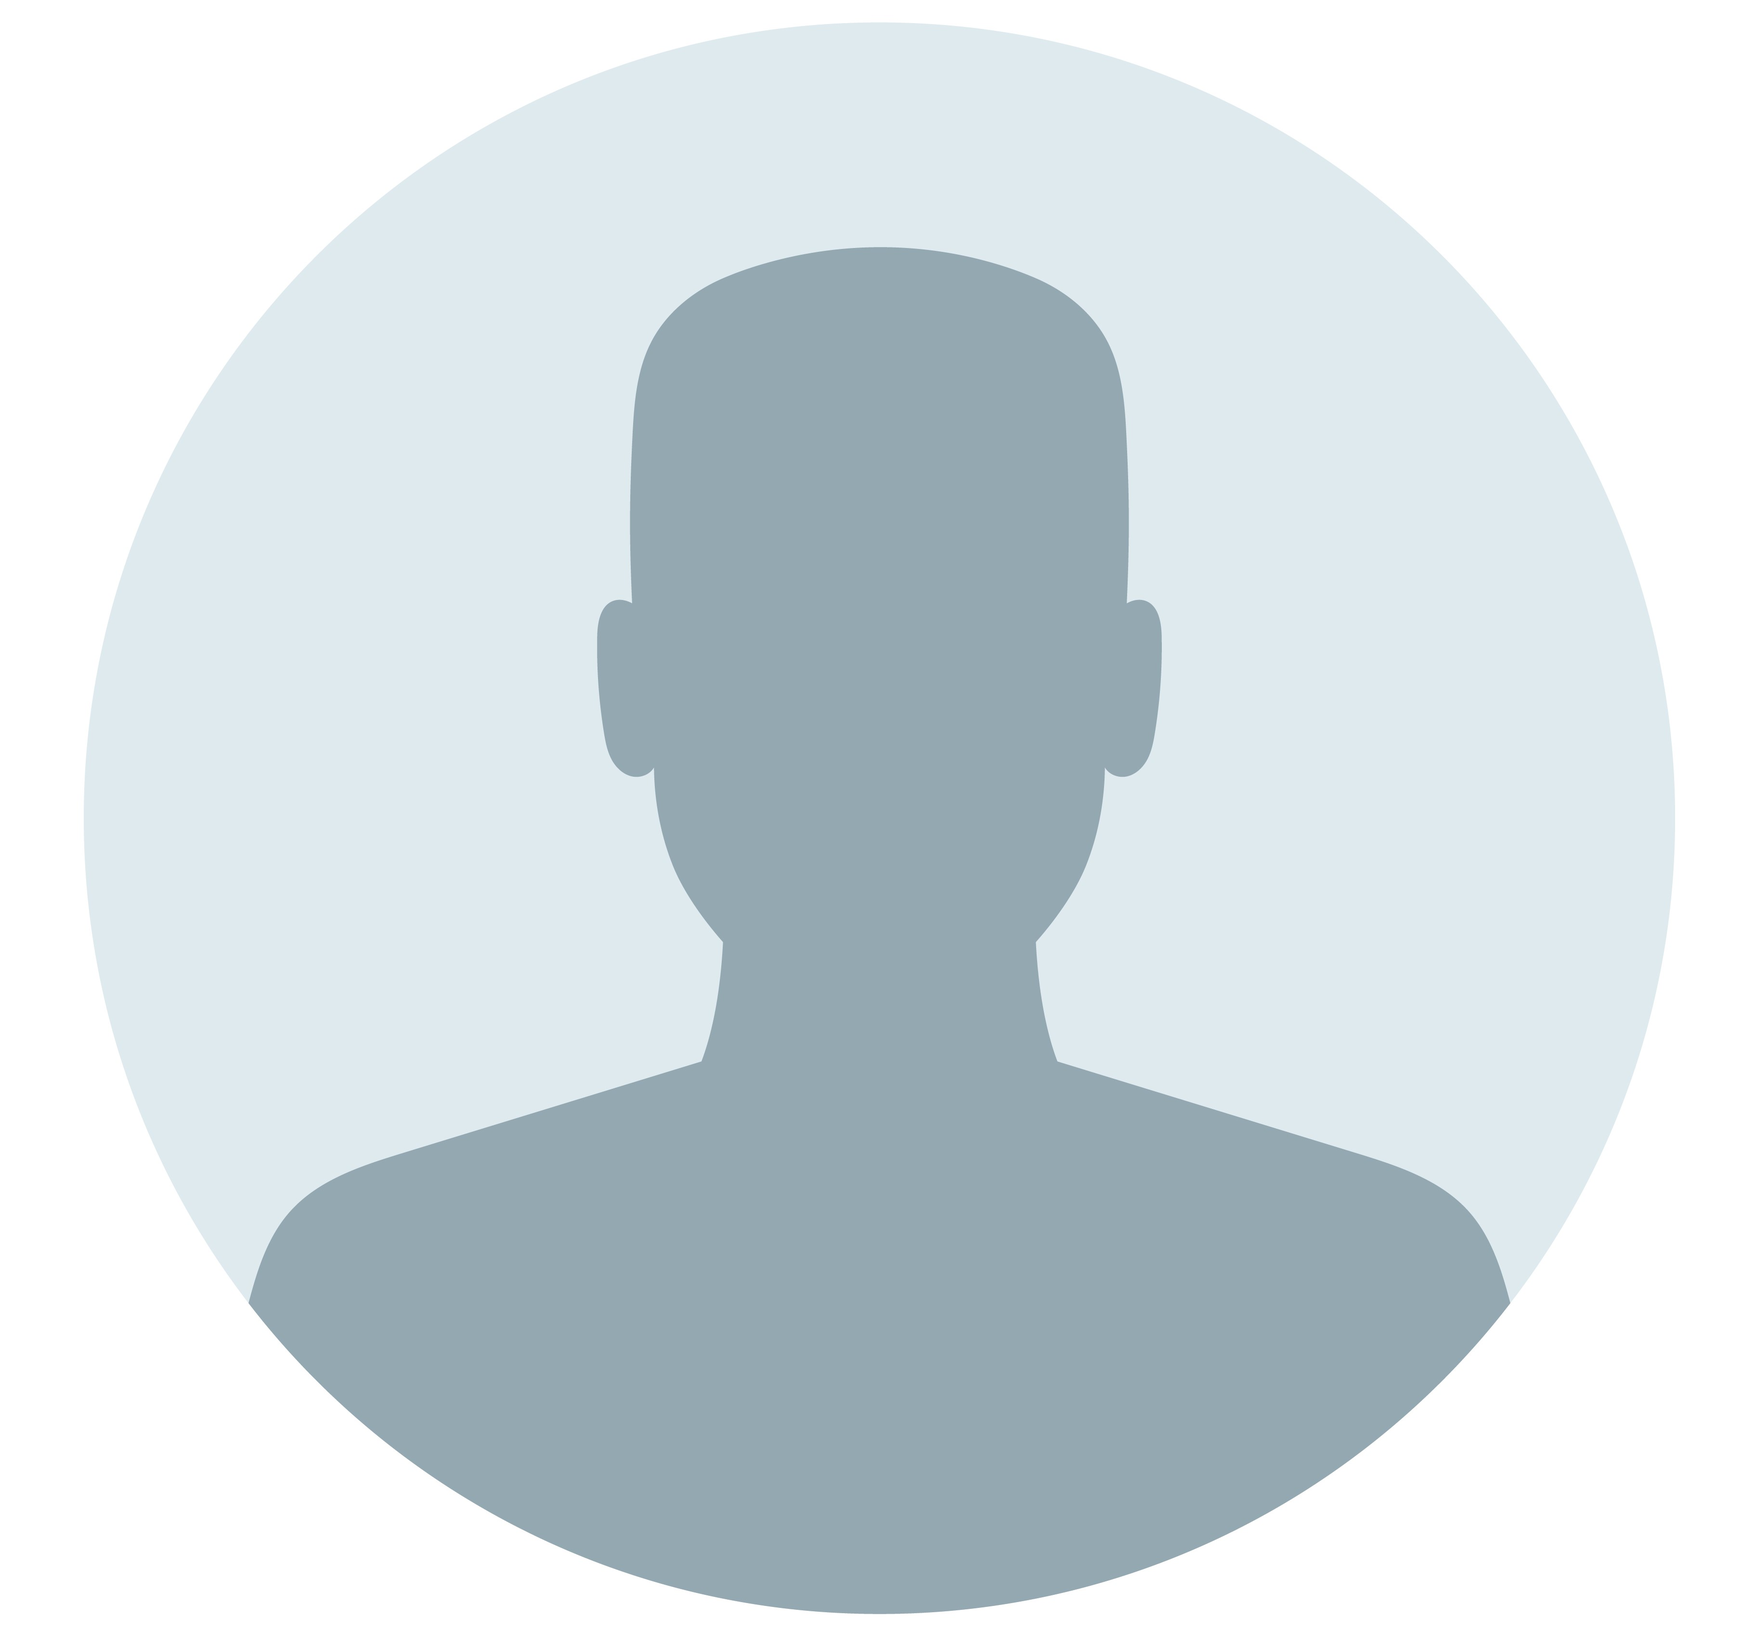
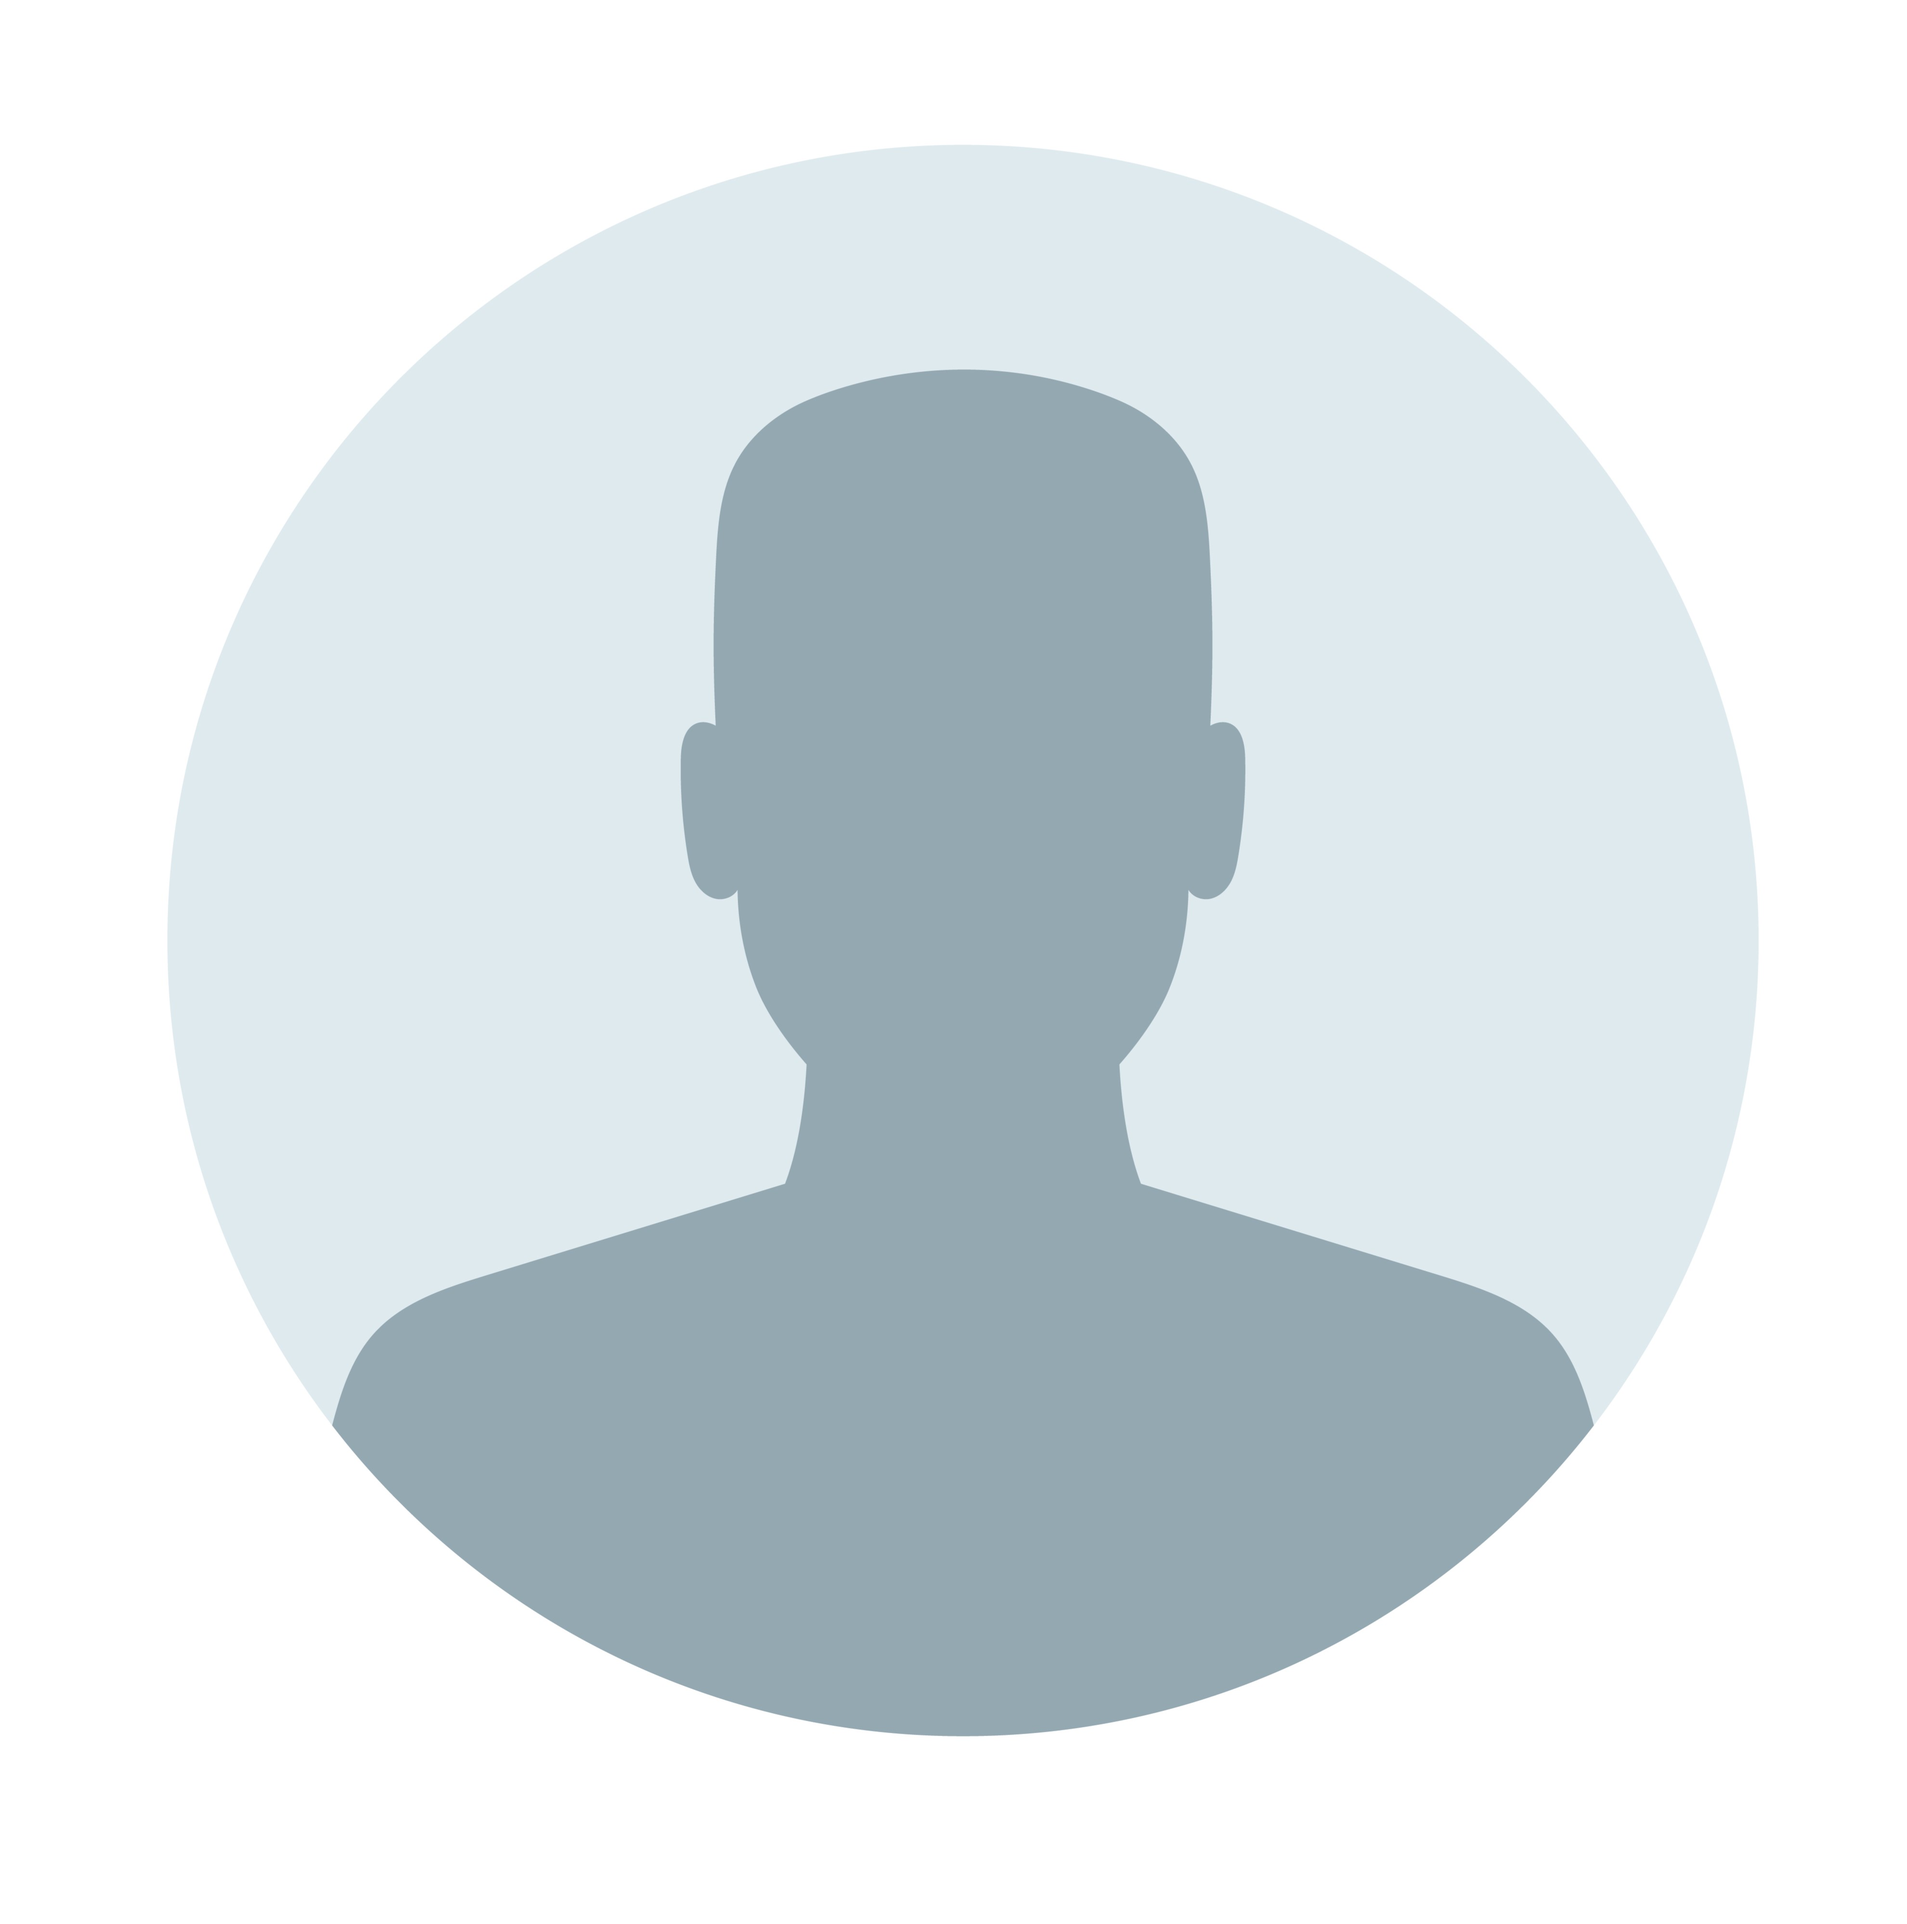
마이페이지 수정 2

Changed region(s): [[0.031, 0.0, 0.961, 0.9936], [0.341, 0.1242, 0.651, 0.621], [0.186, 0.621, 0.403, 0.7141]]

diff --git a/src/main/webapp/WEB-INF/resources/css/infomodify.css b/src/main/webapp/WEB-INF/resources/css/infomodify.css
@@ -3,12 +3,12 @@
 .modify{
     margin: auto;
     text-align: center;
-    margin-top: 14rem;
+    margin-top: 12rem;
 }
 .modify > h2{
     text-align: center;
     padding: 0 2rem;
-    font-size: 2rem;
+    font-size: 1.3rem;
     padding-bottom: 2rem;
 
 }
@@ -41,13 +41,11 @@
     padding: 1rem 0 ;
 }
 
-.user_modi > span,
-.pet_modi > span{
-    font-size: 1.4rem;
-    font-weight: bold;
-    padding-bottom: 0.5rem;
-    color:#777;
-}
+.user_modi .user,
+.pet_modi .pet{
+	font-size: 1.3rem;
+	margin-right: 0.5rem;
+	}
 
 .modi_image{
     border-radius: 50%;
@@ -101,7 +99,7 @@
   	background-color: #fa5;    
   	font-weight: bold;
     border: none;
-    margin-bottom:5rem;
+    margin-bottom:7.5rem;
 }
 
 .withdraw{

diff --git a/src/main/webapp/WEB-INF/resources/css/mypage.css b/src/main/webapp/WEB-INF/resources/css/mypage.css
@@ -101,18 +101,21 @@
 }
 
 .info_wrap .info_image{
+	border-radius: 50%;
     width:130px;
     height: 130px;
-    background-color: #999;
     margin: auto;
     margin-top: 2rem;
     margin-bottom: 2rem;
     overflow: hidden;
 	object-fit: contain;
+	position: relative;
 }
 .info_image > .profile_img{
-	width: 100%;
-
+	width: 100%;	
+	position: absolute;
+	top:0;
+	left: 0;
 }
 .info_box{
     border-bottom: 2px solid #fa5;
@@ -133,18 +136,7 @@
 
 }
 
-.withdraw{
-    position: absolute;
-    right: 3rem;
-    bottom:1rem;
-    font-size: 0.8rem;
-    text-decoration: underline;
-    color:#777    
-}
 
-.withdraw:hover{
-    color:red;
-}
 
 .user_info > .write,
 .pet_info > .write{
